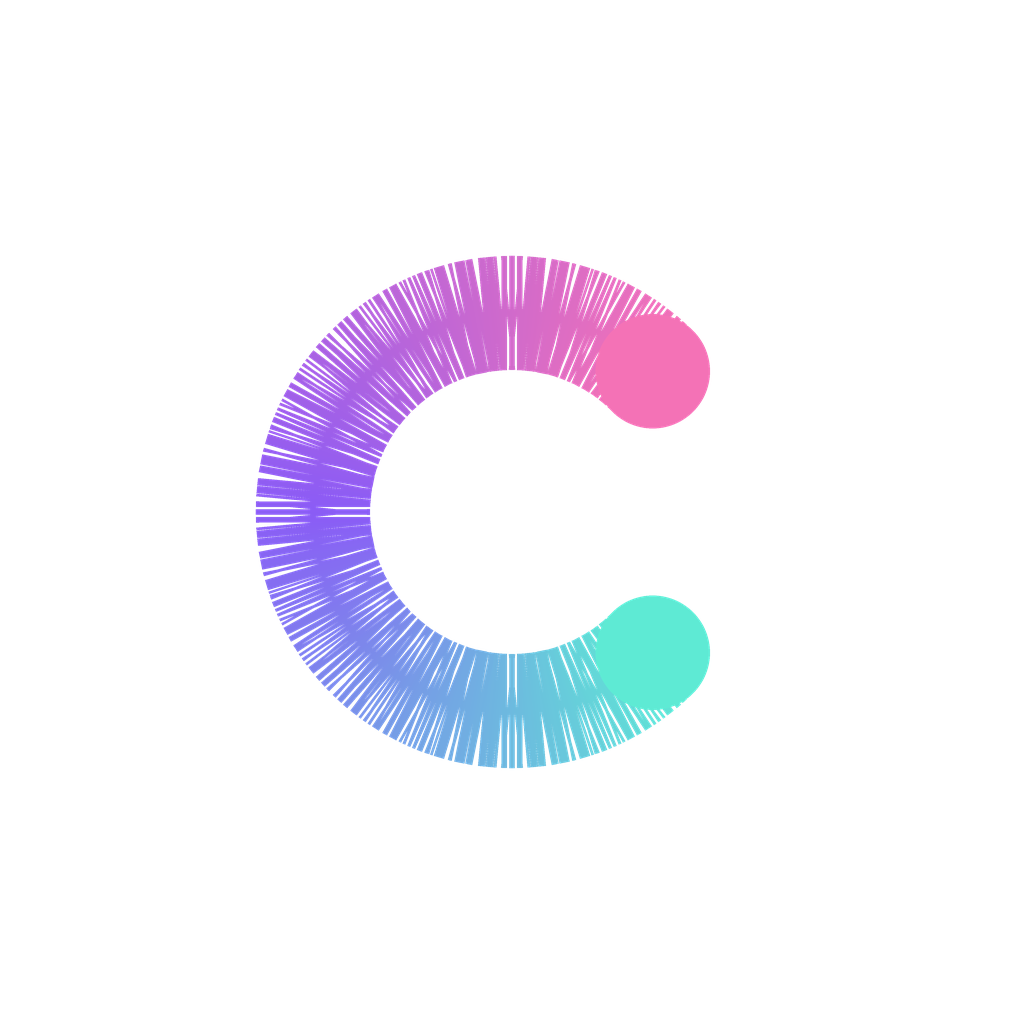
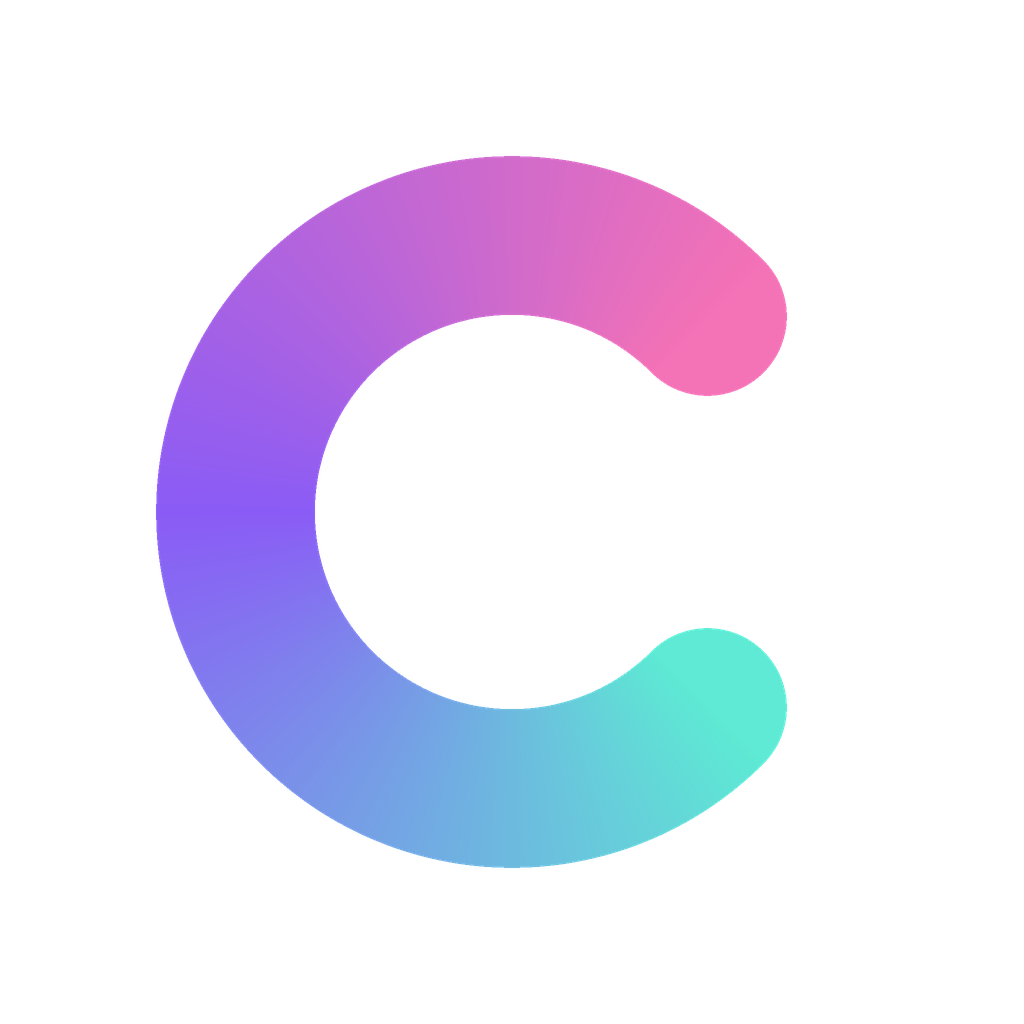
docs: 重绘应用图标，消除采样条纹
- 改用角度渐变 + 形状遮罩，替换逐段画线，圆头与弧线无缝衔接
- Android 前景 0.86 缩放，外接圆 260px 压在 66dp 安全区
- 背景改为纯 #0A0B10，移除光晕
- 新增可复现的 generate.py，更新图标规范

Changed region(s): [[0.125, 0.125, 0.7812, 0.875]]

diff --git a/docs/design/app-icon/generate.py b/docs/design/app-icon/generate.py
@@ -1,0 +1,154 @@
+"""Generate the ComfyPilot app icon set.
+
+Geometry is fixed by docs/design/app-icon/README.md:
+- 1024 canvas, 22.5% rounded corners
+- ring centre radius 27%, stroke 15.5%
+- gap 45deg..315deg (90deg on the right)
+- gradient #5EEAD4 -> #8B5CF6 -> #F472B6 along the arc
+- background #0A0B10
+
+Run with the bundled Python:
+    python docs/design/app-icon/generate.py
+"""
+
+from __future__ import annotations
+
+import math
+from pathlib import Path
+
+import numpy as np
+from PIL import Image, ImageDraw, ImageFont
+
+OUT = Path(__file__).resolve().parent
+BG = (10, 11, 16)
+STOPS = (
+    (0.0, (94, 234, 212)),   # #5EEAD4
+    (0.5, (139, 92, 246)),   # #8B5CF6
+    (1.0, (244, 114, 182)),  # #F472B6
+)
+START_DEG = 45.0
+END_DEG = 315.0
+
+
+def _gradient(t: np.ndarray) -> np.ndarray:
+    """t in [0,1] -> RGB float array (H,W,3)."""
+    channels = [
+        np.interp(t, [s[0] for s in STOPS], [s[1][i] for s in STOPS])
+        for i in range(3)
+    ]
+    return np.stack(channels, axis=-1).astype(np.float32)
+
+
+def ring_rgba(px: int, scale: float = 1.0, white: bool = False) -> Image.Image:
+    """Render a smooth anti-aliased ring at px x px (px is the supersampled size)."""
+    coords = np.arange(px, dtype=np.float32) + 0.5
+    x, y = np.meshgrid(coords, coords)
+    cx = cy = px / 2.0
+    radius = px * 0.27 * scale
+    width = px * 0.155 * scale
+    half = width / 2.0
+
+    dx = x - cx
+    dy = y - cy
+    dist = np.sqrt(dx * dx + dy * dy)
+    angle = (np.degrees(np.arctan2(dy, dx)) % 360.0).astype(np.float32)
+
+    arc = (dist >= radius - half) & (dist <= radius + half)
+    arc &= (angle >= START_DEG) & (angle <= END_DEG)
+
+    def cap(deg: float) -> np.ndarray:
+        rad = math.radians(deg)
+        ex = cx + radius * math.cos(rad)
+        ey = cy + radius * math.sin(rad)
+        return (x - ex) ** 2 + (y - ey) ** 2 <= half * half
+
+    cap_start = cap(START_DEG)
+    cap_end = cap(END_DEG)
+    mask = arc | cap_start | cap_end
+
+    if white:
+        rgb = np.full((px, px, 3), 255.0, dtype=np.float32)
+    else:
+        # Clamping the angle outside the arc makes the round caps take the
+        # endpoint colour; pixels still inside the arc keep their gradient.
+        t = np.clip((angle - START_DEG) / (END_DEG - START_DEG), 0.0, 1.0)
+        rgb = _gradient(t)
+
+    alpha = mask.astype(np.uint8) * 255
+    rgba = np.dstack([rgb, alpha]).astype(np.uint8)
+    return Image.fromarray(rgba, "RGBA")
+
+
+def ring_image(size: int, scale: float = 1.0, ss: int = 4, white: bool = False) -> Image.Image:
+    high = ring_rgba(size * ss, scale=scale, white=white)
+    return high.resize((size, size), Image.LANCZOS)
+
+
+def rounded_master(size: int = 1024, ss: int = 2) -> Image.Image:
+    px = size * ss
+    canvas = Image.new("RGBA", (px, px), (0, 0, 0, 0))
+    draw = ImageDraw.Draw(canvas)
+    draw.rounded_rectangle(
+        [0, 0, px - 1, px - 1],
+        radius=int(px * 0.225),
+        fill=BG + (255,),
+    )
+    canvas.alpha_composite(ring_rgba(px, scale=1.0))
+    return canvas.resize((size, size), Image.LANCZOS)
+
+
+def solid(size: int) -> Image.Image:
+    return Image.new("RGBA", (size, size), BG + (255,))
+
+
+def size_sheet(master: Image.Image) -> Image.Image:
+    sizes = (160, 96, 72, 48, 32, 24)
+    padding = 26
+    gap = 24
+    width = padding * 2 + sum(sizes) + gap * (len(sizes) - 1)
+    height = 224
+    sheet = Image.new("RGB", (width, height), (20, 21, 28))
+    draw = ImageDraw.Draw(sheet)
+    try:
+        font = ImageFont.load_default(size=14)
+    except TypeError:
+        font = ImageFont.load_default()
+
+    x = padding
+    for px in sizes:
+        icon = master.resize((px, px), Image.LANCZOS)
+        y = 178 - px
+        sheet.paste(icon, (x, y), icon)
+        label = str(px)
+        box = draw.textbbox((0, 0), label, font=font)
+        draw.text(
+            (x + (px - (box[2] - box[0])) / 2, 186),
+            label,
+            fill=(180, 184, 200),
+            font=font,
+        )
+        x += px + gap
+    return sheet
+
+
+def main() -> None:
+    master = rounded_master()
+    master.save(OUT / "master_1024.png")
+
+    # Android adaptive icon: foreground content stays inside the 66dp safe area.
+    # The full ring is 69.5% of the canvas; 0.86 keeps it within 66/108.
+    android_scale = 0.86
+    ring_image(432, scale=android_scale, ss=4).save(OUT / "android_foreground_432.png")
+    solid(432).save(OUT / "android_background_432.png")
+    ring_image(432, scale=android_scale, ss=4, white=True).save(OUT / "android_monochrome_432.png")
+
+    # HarmonyOS layered icon: foreground/background are both 1024.
+    ring_image(1024, scale=1.0, ss=2).save(OUT / "harmony_foreground_1024.png")
+    solid(1024).save(OUT / "harmony_background_1024.png")
+
+    size_sheet(master).save(OUT / "sizes.png")
+    print("wrote", sorted(p.name for p in OUT.glob("*.png")))
+
+
+if __name__ == "__main__":
+    main()

diff --git a/docs/design/app-icon/README.md b/docs/design/app-icon/README.md
@@ -2,27 +2,39 @@
 
 ## 方案
 「纯 C」：一条粗笔画、圆头的开口环，开口朝右，形成字母 C；颜色沿弧线从青绿走到粉，
-深色圆角底承托。不放任何附加元素——之前版本在节点外圈加了背景色描边，缩放后会出现
-黑色尖刺，已废弃。
+深色圆角底承托。不放任何附加元素。
+
+本轮实现改成 **角度渐变 + 形状遮罩** 绘制，不再逐段画线，因此缩放后不会出现
+放射状条纹；Android 背景和鸿蒙背景都是纯色 `#0A0B10`，不再叠加光晕。
 
 ## 几何
 - 画布 1024×1024，圆角半径 22.5%（230）。
-- 环中心居中，半径 27%，笔画宽度 15.5%，开口 45°→315°（右侧 90° 缺口）。
+- 环中心居中，中心线半径 27%（276.5），笔画宽度 15.5%（158.7），开口 45°→315°（右侧 90° 缺口）。
 - 端点圆头，直径等于笔画宽度。
+- Android 自适应前景内容按 0.86 缩放，外接圆约 260px，压在 66dp 安全区（432px 下为 264px）内。
+- 鸿蒙分层前景使用完整 1024 画布的环，背景同尺寸纯色。
 
 ## 颜色
 - 底：#0A0B10
 - 渐变：#5EEAD4（0%）→ #8B5CF6（50%）→ #F472B6（100%），沿弧线角度线性插值。
+- 端点圆头沿用端点色，避免圆头与弧线之间出现色差接缝。
 
 ## 交付尺寸
 - 主图：1024×1024（应用商店、关于页）。
-- Android 自适应图标：前景 432×432（108dp@4x，内容缩至 66dp 安全区）、背景 432×432、monochrome 432×432；
-  由系统裁切成 mipmap 各密度。
+- Android 自适应图标：前景 432×432、背景 432×432、monochrome 432×432（白色 C，
+  同样压在 66dp 安全区）；由系统裁切成 mipmap 各密度。
 - 鸿蒙分层图标：前景 1024、背景 1024，交给 `layered_image.json`。
-- 小尺寸验证：24 / 32 / 48 / 72 / 96 / 160 均可辨认（见 sizes.png）。
+- 小尺寸验证：24 / 32 / 48 / 72 / 96 / 160，见 `sizes.png`。
+
+## 生成
+```powershell
+python docs/design/app-icon/generate.py
+```
+脚本只依赖 Pillow 与 numpy，输出目录就是本目录。所有几何/颜色常量都在脚本顶部。
 
 ## 文件
-- master_1024.png
-- android_foreground_432.png / android_background_432.png / android_monochrome_432.png
-- harmony_foreground_1024.png / harmony_background_1024.png
-- sizes.png
+- `generate.py`
+- `master_1024.png`
+- `android_foreground_432.png` / `android_background_432.png` / `android_monochrome_432.png`
+- `harmony_foreground_1024.png` / `harmony_background_1024.png`
+- `sizes.png`
